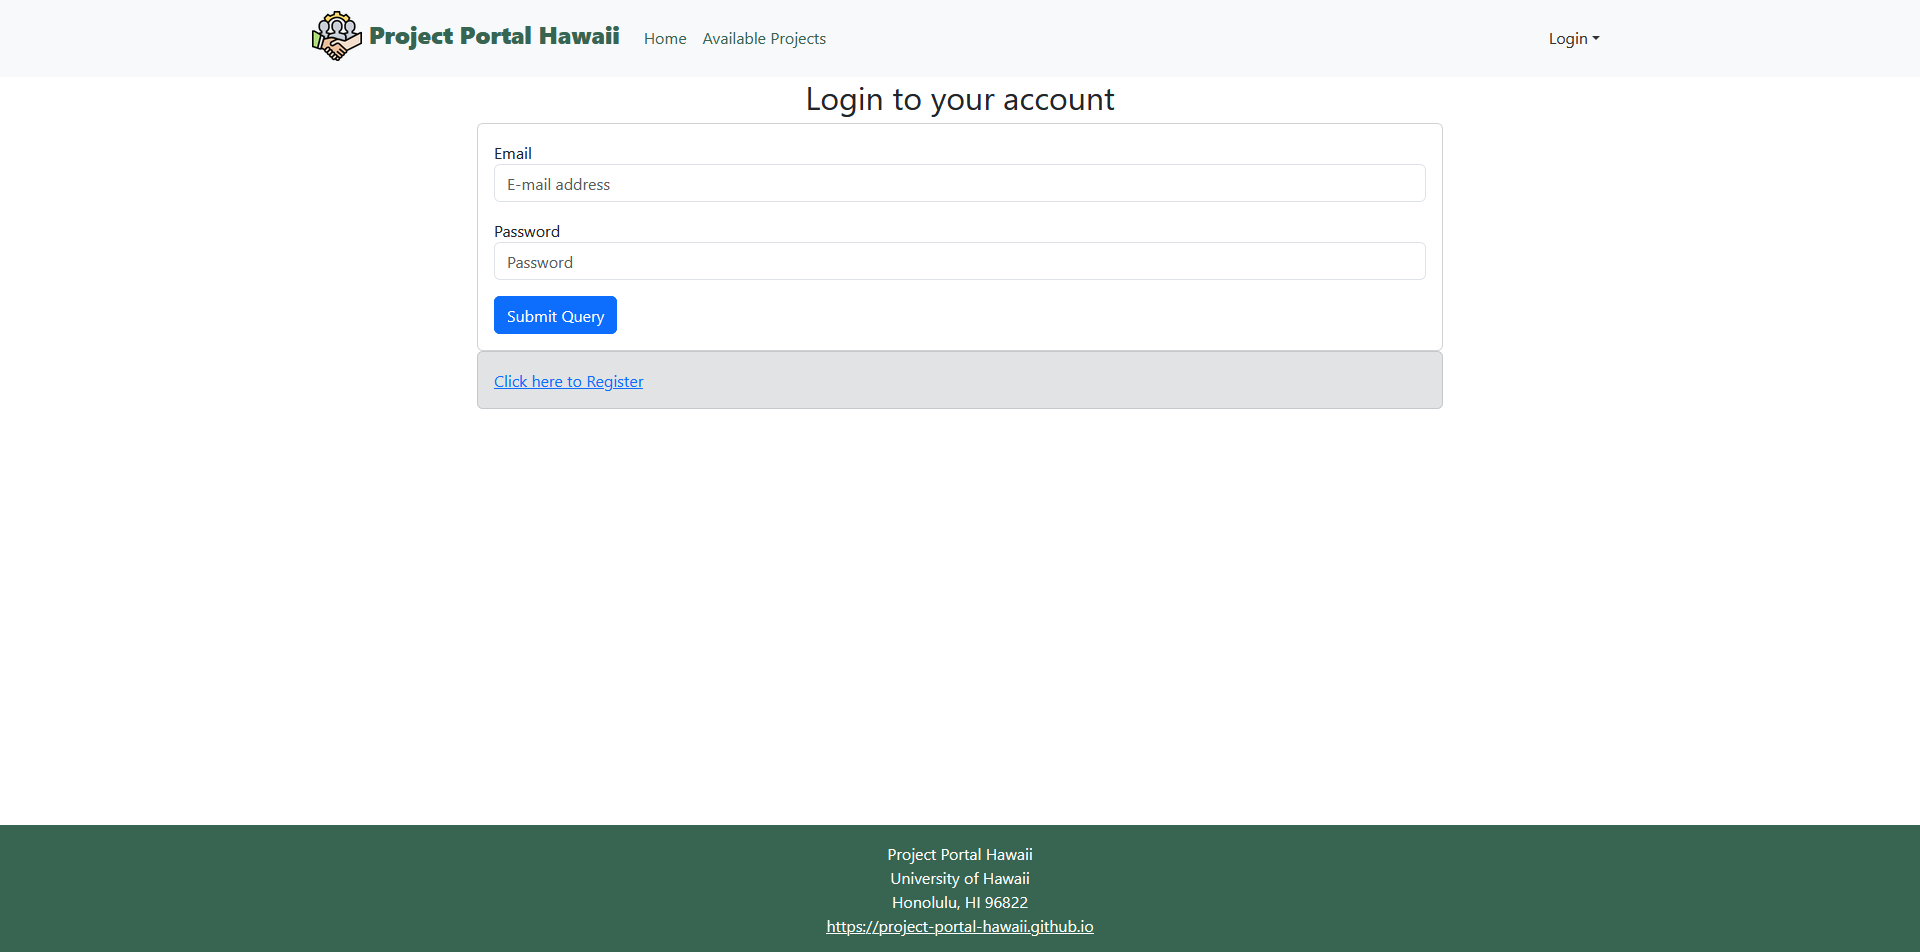
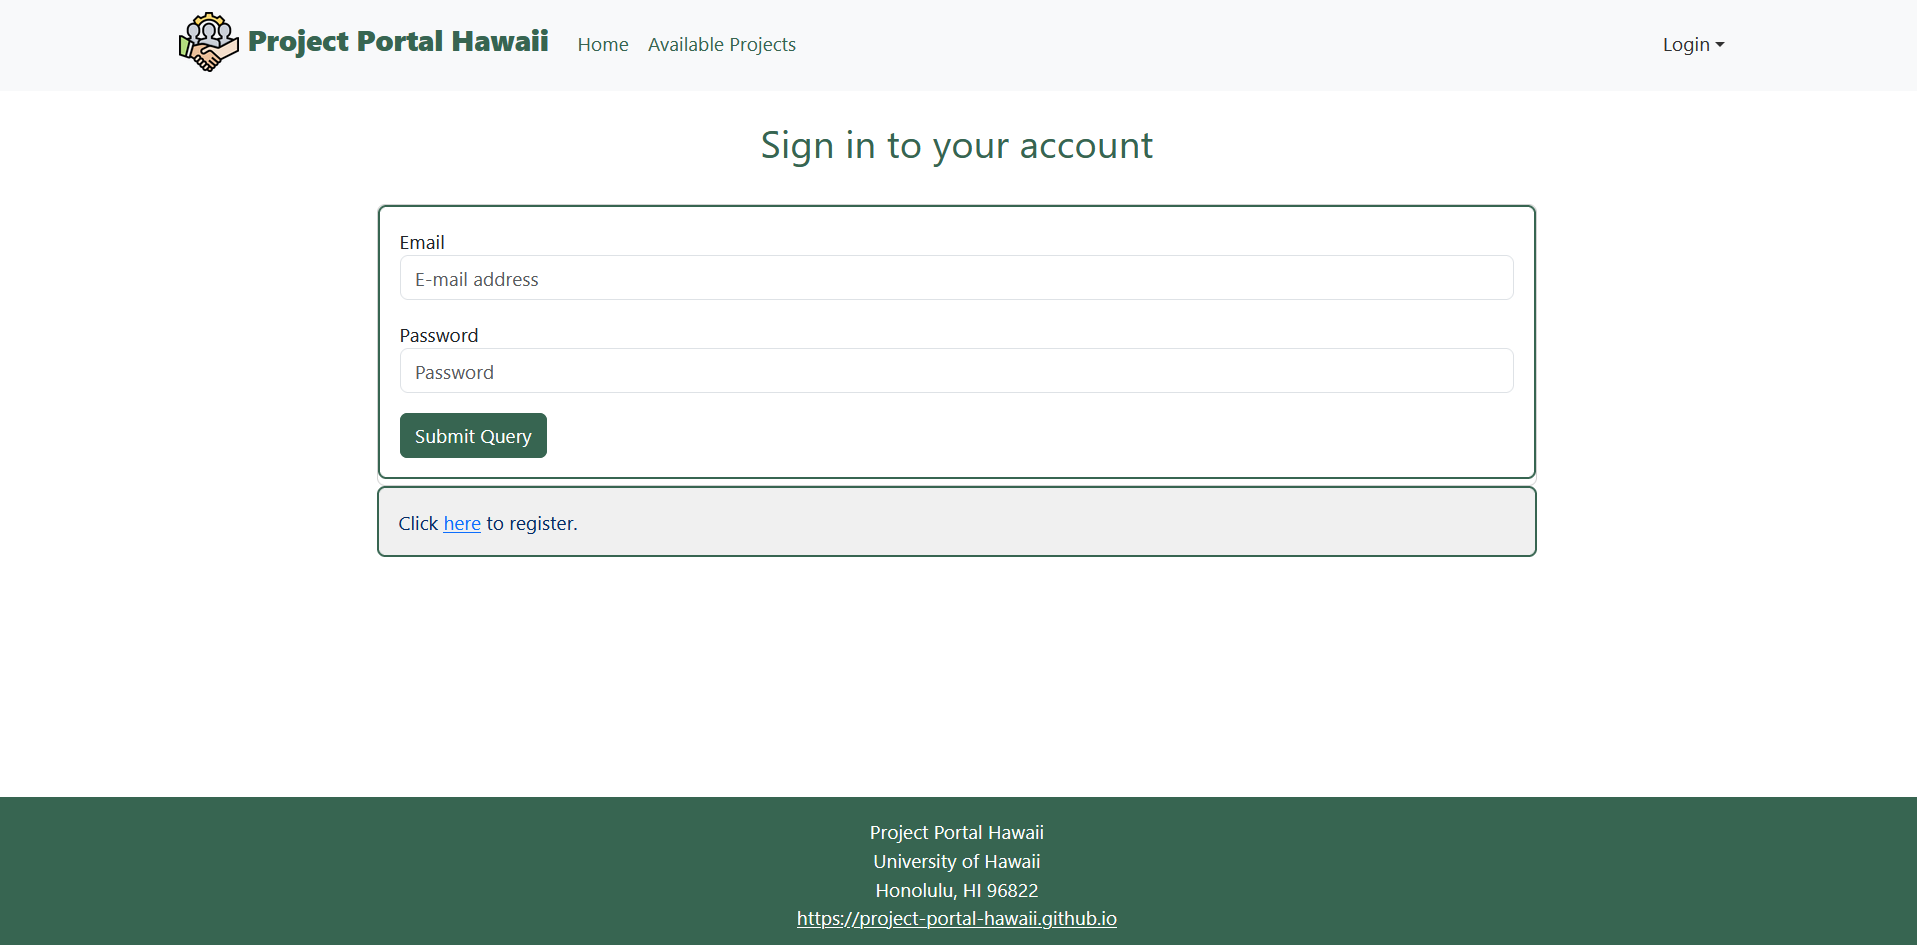
Issue-2
style.css - Updated Submit buttons to match color theme.
AddProject.jsx, EditProfile.jsx, SignIn.jsx, SingleProject.jsx - Updated CSS styles for buttons and cards to match color scheme.
Replaced Landing page photos with updated photos.

diff --git a/app/client/style.css b/app/client/style.css
@@ -1,55 +1,82 @@
 /* Use Open Sans as the default sans serif font. */
 @import url("https://fonts.googleapis.com/css?family=Open+Sans:300,400,500,700|Source+Code+Pro:300,400,500,700");
 
-/* Create some Bowfolio CSS variables. */
+/* Create some pph CSS variables. */
 :root {
-  --bowfolio-navbar-bg: #376551;
-  --bowfolio-navbar-bg-rgb: 55, 101, 81;
-  --bowfolio-navbar-text: white;
-  --bowfolio-navbar-highlight-text: var(--bs-gray-500);
+  --pph-navbar-bg: #376551;
+  --pph-navbar-bg-rgb: 55, 101, 81;
+  --pph-navbar-text: white;
+  --pph-navbar-highlight-text: var(--bs-gray-500);
 }
 /* Change bootstrap variable values.
  See https://getbootstrap.com/docs/5.2/customize/css-variables/
  */
 body {
-  --bs-dark: var(--bowfolio-navbar-bg);
-  --bs-dark-rgb: var(--bowfolio-navbar-bg-rgb);
+  --bs-dark: var(--pph-navbar-bg);
+  --bs-dark-rgb: var(--pph-navbar-bg-rgb);
 }
 
 /* Color the light Brand and links with dark color */
 .bg-light span, .bg-light a {
-  color:  var(--bowfolio-navbar-bg);
+  color:  var(--pph-navbar-bg);
 }
 
 /* When logged in we switch the NavBar to bg-dark so we need to override the styles to give light text. */
 .bg-dark span, .bg-dark a {
-  color: var(--bowfolio-navbar-text);
+  color: var(--pph-navbar-text);
 }
 
 /* When logged in we highlight the selected route. */
 .bg-dark a.nav-link.active {
-  color: var(--bowfolio-navbar-highlight-text);
+  color: var(--pph-navbar-highlight-text);
 }
 
 /* Override the color on the dropdown when logged in. */
 .bg-dark a.dropdown-item {
-  color: var(--bowfolio-navbar-bg);
+  color: var(--pph-navbar-bg);
 }
 
 /* Landing page color blocking */
 .landing-green-background {
-  background-color: var(--bowfolio-navbar-bg);
-  color: var(--bowfolio-navbar-text);
+  background-color: var(--pph-navbar-bg);
+  color: var(--pph-navbar-text);
   padding-top: 20px;
 }
 
 .landing-white-background {
-  background-color: var(--bowfolio-navbar-text);
-  color: var(--bowfolio-navbar-bg);
+  background-color: var(--pph-navbar-text);
+  color: var(--pph-navbar-bg);
   padding-top: 20px;
 }
 
 .reset-margins {
   margin-top: 0;
   margin-bottom: 0;
+}
+
+/* Sign Up and Sign In Pages CSS */
+#signUpFormSubmit input,
+#signInFormSubmit input,
+#addProjectFormSubmit input,
+#editProfileFormSubmit input,
+#singleProjectAddButton {
+  border-color: var(--pph-navbar-bg);
+  background-color: var(--pph-navbar-bg);
+}
+
+#signUpFormAlert, #signInFormAlert {
+  border: 2px solid var(--pph-navbar-bg);
+  border-radius: 0.375rem;
+  background-color: #f0f0f0;
+}
+
+#signUpCardBody, #signInCardBody {
+  border: 2px solid var(--pph-navbar-bg);
+  border-radius: 0.375rem;
+  margin-bottom: 5px;
+}
+
+#addProjectCardBody, #editProfileCardBody {
+  border: 2px solid var(--pph-navbar-bg);
+  border-radius: 0.375rem;
 }

diff --git a/app/imports/ui/pages/EditProfile.jsx b/app/imports/ui/pages/EditProfile.jsx
@@ -68,27 +68,27 @@ const EditProfile = () => {
   const profile = Profiles.collection.findOne({ email });
   const model = _.extend({}, profile, { interests, projects });
   return ready ? (
-    <Container id={PageIDs.homePage} className="justify-content-center" style={pageStyle}>
+    <Container id={PageIDs.editProfilePage} className="justify-content-center" style={pageStyle}>
       <Col>
         <Col className="justify-content-center text-center"><h2>Your Profile</h2></Col>
         <AutoForm model={model} schema={bridge} onSubmit={data => submit(data)}>
           <Card>
-            <Card.Body>
+            <Card.Body id={ComponentIDs.editProfileCardBody}>
               <Row>
-                <Col xs={4}><TextField id={ComponentIDs.homeFormFirstName} name="firstName" showInlineError placeholder="First Name" /></Col>
-                <Col xs={4}><TextField id={ComponentIDs.homeFormLastName} name="lastName" showInlineError placeholder="Last Name" /></Col>
+                <Col xs={4}><TextField id={ComponentIDs.editProfileFormFirstName} name="firstName" showInlineError placeholder="First Name" /></Col>
+                <Col xs={4}><TextField id={ComponentIDs.editProfileFormLastName} name="lastName" showInlineError placeholder="Last Name" /></Col>
                 <Col xs={4}><TextField name="email" showInlineError placeholder="email" disabled /></Col>
               </Row>
-              <LongTextField id={ComponentIDs.homeFormBio} name="bio" placeholder="Write a little bit about yourself." />
+              <LongTextField id={ComponentIDs.editProfileFormBio} name="bio" placeholder="Write a little bit about yourself." />
               <Row>
                 <Col xs={6}><TextField name="title" showInlineError placeholder="Title" /></Col>
                 <Col xs={6}><TextField name="picture" showInlineError placeholder="URL to picture" /></Col>
-              </Row>
+              </Row>{ /*
               <Row>
                 <Col xs={6}><SelectField name="interests" showInlineError multiple /></Col>
                 <Col xs={6}><SelectField name="projects" showInlineError multiple /></Col>
-              </Row>
-              <SubmitField id={ComponentIDs.homeFormSubmit} value="Update" />
+              </Row> */ }
+              <SubmitField id={ComponentIDs.editProfileFormSubmit} value="Update" />
             </Card.Body>
           </Card>
         </AutoForm>

diff --git a/app/imports/ui/utilities/ids.js b/app/imports/ui/utilities/ids.js
@@ -1,4 +1,5 @@
 export const ComponentIDs = {
+  addProjectCardBody: 'addProjectCardBody',
   addProjectMenuItem: 'addProjectMenuItem',
   addProjectFormName: 'addProjectFormName',
   addProjectFormPicture: 'addProjectFormPicture',
@@ -13,11 +14,12 @@ export const ComponentIDs = {
   filterFormInterests: 'filterFormInterests',
   filterFormSubmit: 'filterFormSubmit',
   filterMenuItem: 'filterMenuItem',
-  homeFormFirstName: 'homeFormFirstName',
-  homeFormLastName: 'homeFormLastName',
-  homeFormBio: 'homeFormBio',
-  homeFormSubmit: 'homeFormSubmit',
-  homeMenuItem: 'homeMenuItem',
+  editProfileCardBody: 'editProfileCardBody',
+  editProfileFormFirstName: 'editProfileFormFirstName',
+  editProfileFormLastName: 'editProfileFormLastName',
+  editProfileFormBio: 'editProfileFormBio',
+  editProfileFormSubmit: 'editProfileFormSubmit',
+  editProfileMenuItem: 'editProfileMenuItem',
   interestsMenuItem: 'interestsMenuItem',
   landingMenuItem: 'landingMenuItem',
   loginDropdown: 'loginDropdown',
@@ -25,19 +27,24 @@ export const ComponentIDs = {
   loginDropdownSignUp: 'loginDropdownSignUp',
   profilesMenuItem: 'profilesMenuItem',
   projectsMenuItem: 'projectsMenuItem',
+  signInCardBody: 'signInCardBody',
+  signInFormAlert: 'signInFormAlert',
   signInFormEmail: 'signInFormEmail',
   signInFormPassword: 'signInFormPassword',
   signInFormSubmit: 'signInFormSubmit',
+  signUpCardBody: 'signUpCardBody',
+  signUpFormAlert: 'signUpFormAlert',
   signUpFormEmail: 'signUpFormEmail',
   signUpFormPassword: 'signUpFormPassword',
   signUpFormSubmit: 'signUpFormSubmit',
+  singleProjectAddButton: 'singleProjectAddButton',
   singleProjectMenuItem: 'singleProjectMenuItem',
 };
 
 export const PageIDs = {
   addProjectPage: 'addProjectPage',
   filterPage: 'filterPage',
-  homePage: 'homePage',
+  editProfilePage: 'editProfilePage',
   interestsPage: 'interestsPage',
   landingPage: 'landingPage',
   notAuthorizedPage: 'notAuthorizedPage',

diff --git a/app/imports/ui/pages/SignIn.jsx b/app/imports/ui/pages/SignIn.jsx
@@ -45,12 +45,12 @@ const SignIn = () => {
     <Container id={PageIDs.signInPage}>
       <Row className="justify-content-center">
         <Col xs={9}>
-          <Col className="text-center">
-            <h2>Login to your account</h2>
+          <Col className="text-center py-4">
+            <h2 style={{ color: '#376551' }}>Sign in to your account</h2>
           </Col>
           <AutoForm schema={bridge} onSubmit={data => submit(data)}>
             <Card>
-              <Card.Body>
+              <Card.Body id={ComponentIDs.signInCardBody}>
                 <TextField id={ComponentIDs.signInFormEmail} name="email" placeholder="E-mail address" />
                 <TextField id={ComponentIDs.signInFormPassword} name="password" placeholder="Password" type="password" />
                 <ErrorsField />
@@ -58,8 +58,10 @@ const SignIn = () => {
               </Card.Body>
             </Card>
           </AutoForm>
-          <Alert variant="secondary">
-            <Link to="/signup">Click here to Register</Link>
+          <Alert id={ComponentIDs.signInFormAlert}>
+            Click {' '}
+            <Link to="/signup">here</Link>
+            {' '} to register.
           </Alert>
           {error === '' ? (
             ''

diff --git a/app/imports/ui/pages/SignUp.jsx b/app/imports/ui/pages/SignUp.jsx
@@ -41,12 +41,12 @@ const SignUp = () => {
     <Container id={PageIDs.signUpPage}>
       <Row className="justify-content-center">
         <Col xs={9}>
-          <Col className="text-center">
-            <h2>Register your account</h2>
+          <Col className="text-center py-4">
+            <h2 style={{ color: '#376551' }}>Create a new account</h2>
           </Col>
           <AutoForm schema={bridge} onSubmit={data => submit(data)}>
             <Card>
-              <Card.Body>
+              <Card.Body id={ComponentIDs.signUpCardBody}>
                 <TextField id={ComponentIDs.signUpFormEmail} name="email" placeholder="E-mail address" />
                 <TextField id={ComponentIDs.signUpFormPassword} name="password" placeholder="Password" type="password" />
                 <ErrorsField />
@@ -54,7 +54,7 @@ const SignUp = () => {
               </Card.Body>
             </Card>
           </AutoForm>
-          <Alert variant="secondary">
+          <Alert id={ComponentIDs.signUpFormAlert}>
             Already have an account? Login
             {' '}
             <Link to="/signin">here</Link>

diff --git a/app/imports/ui/pages/SingleProject.jsx b/app/imports/ui/pages/SingleProject.jsx
@@ -10,7 +10,7 @@ import { Projects } from '../../api/projects/Projects';
 import { ProjectsInterests } from '../../api/projects/ProjectsInterests';
 import LoadingSpinner from '../components/LoadingSpinner';
 import { pageStyle } from './pageStyles';
-import { PageIDs } from '../utilities/ids';
+import { ComponentIDs, PageIDs } from '../utilities/ids';
 
 /* Gets the Project data as well as Profiles and Interests associated with the passed Project name. */
 function getProjectData(name) {
@@ -74,7 +74,7 @@ const SingleProjectPage = () => {
       <Row className="g-2">
         <MakeCard project={singleProject} />
       </Row>
-      <Button>Add Project</Button>
+      <Button id={ComponentIDs.singleProjectAddButton}>Add Project</Button>
     </Container>
   ) : <LoadingSpinner />;
 };

diff --git a/app/imports/ui/pages/AddProject.jsx b/app/imports/ui/pages/AddProject.jsx
@@ -71,7 +71,7 @@ const AddProject = () => {
           <Col className="text-center"><h2>Add Project</h2></Col>
           <AutoForm ref={ref => { fRef = ref; }} schema={bridge} onSubmit={data => submit(data, fRef)}>
             <Card>
-              <Card.Body>
+              <Card.Body id={ComponentIDs.addProjectCardBody}>
                 <Row>
                   <Col xs={4}><TextField id={ComponentIDs.addProjectFormName} name="name" showInlineError placeholder="Project name" /></Col>
                   <Col xs={4}><TextField id={ComponentIDs.addProjectFormPicture} name="picture" showInlineError placeholder="Project picture URL" /></Col>
